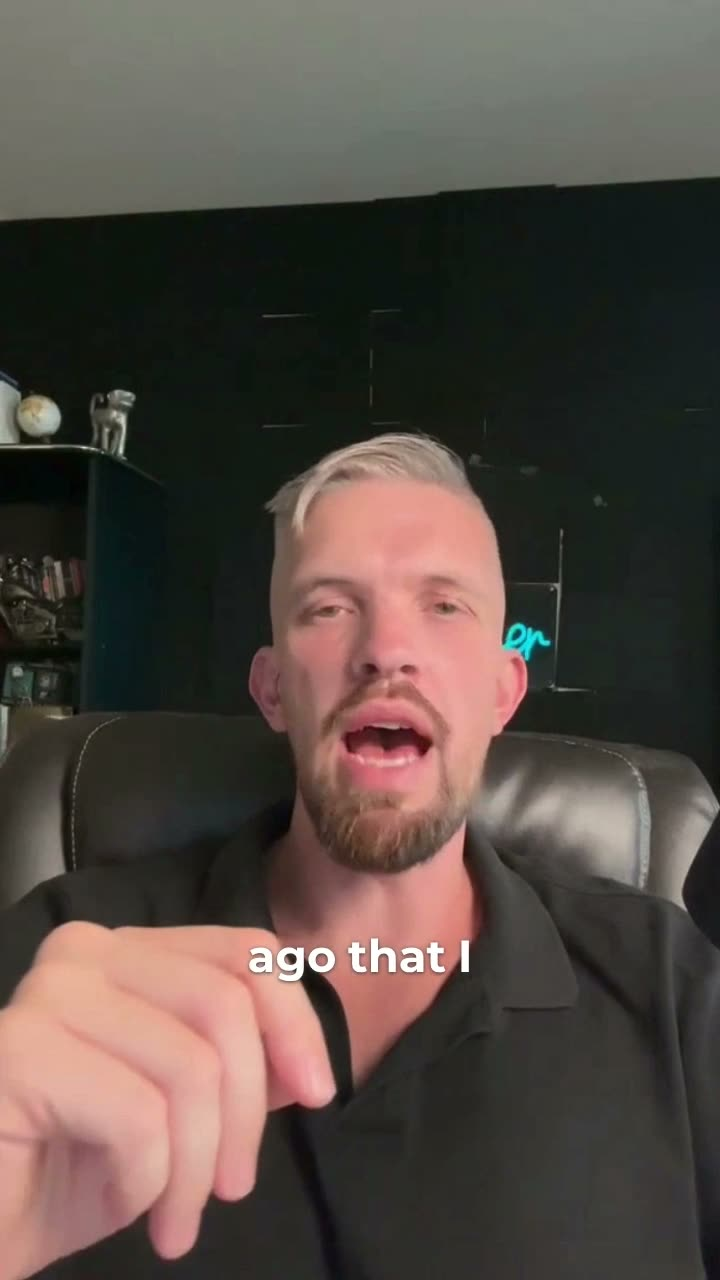
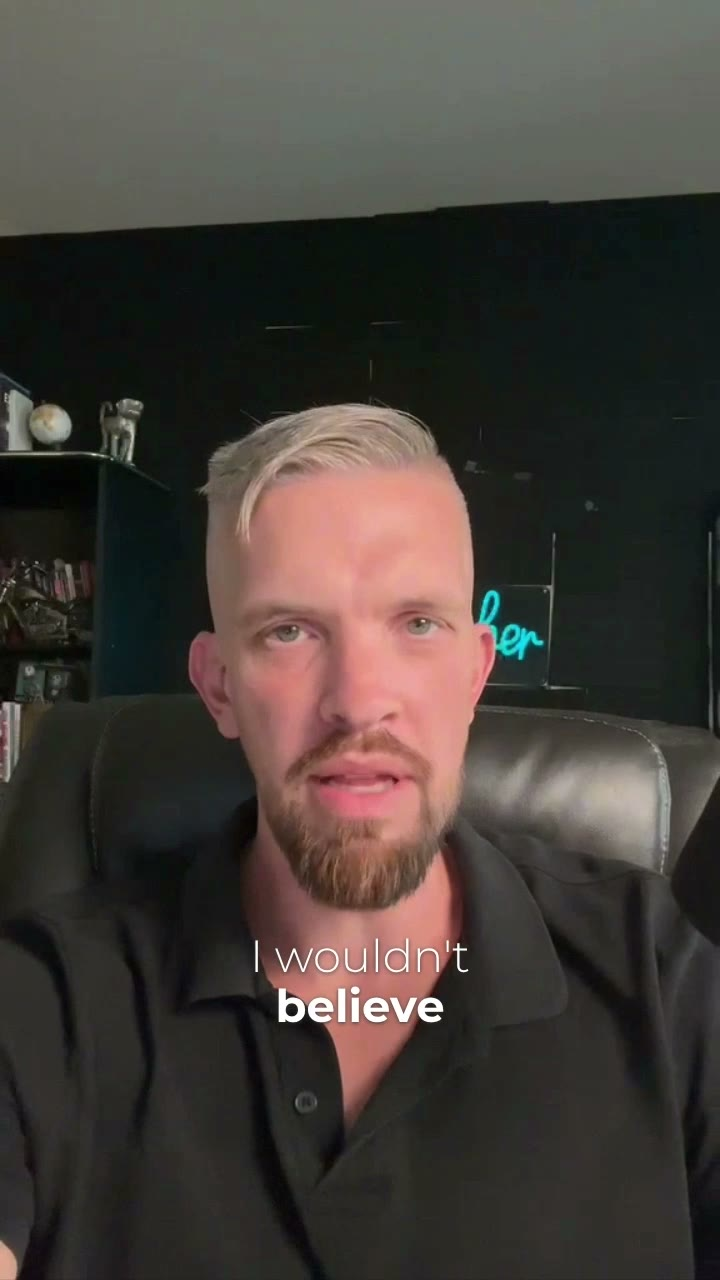
VSL poster from the 10s frame (composed, mouth closed); mobile toasts shrunk
The old poster caught the speaker mid-word. New frame: eyes on camera,
neutral mouth. Mobile social-proof toasts are now compact (290px cap,
smaller avatar/type/padding) — they whisper instead of covering the pitch.
Tyler eyeballed both on the mobile preview and approved.

Claude-Session: https://claude.ai/code/session_0146dsLJ8eMAE4jyEwxm7bb2

diff --git a/apps/web/public/social-proof.js b/apps/web/public/social-proof.js
@@ -86,12 +86,19 @@
   .sp-minimal .sp-x{display:none}
 
   @media (max-width:640px){
-    /* Phones: a centered banner floated in from the top, never glued to the
-       bottom edge of the page. */
-    .sp-host{padding:0;left:50% !important;right:auto !important;top:64px !important;bottom:auto !important;
-      transform:translateX(-50%);width:calc(100vw - 24px);max-width:380px}
-    .sp-toast{width:100%;transform:translateY(-10px) scale(.97)}
+    /* Phones: a compact centered banner floated in from the top, never glued
+       to the bottom edge of the page. Deliberately smaller than desktop —
+       it should whisper, not cover the pitch. */
+    .sp-host{padding:0;left:50% !important;right:auto !important;top:60px !important;bottom:auto !important;
+      transform:translateX(-50%);width:auto;max-width:290px}
+    .sp-toast{width:auto;transform:translateY(-10px) scale(.97)}
     .sp-toast.in{transform:none}
+    .sp-card{padding:8px 12px;border-radius:11px;border-left-width:2px;
+      box-shadow:0 8px 26px rgba(9,9,11,.14),0 1px 5px rgba(9,9,11,.06)}
+    .sp-av{width:28px;height:28px;font-size:11px}
+    .sp-l1{font-size:12.5px}
+    .sp-l2{font-size:10px;margin-top:1px}
+    .sp-x{width:16px;height:16px;font-size:13px}
   }
   @media (prefers-reduced-motion:reduce){
     .sp-toast{transition:opacity .01ms}
